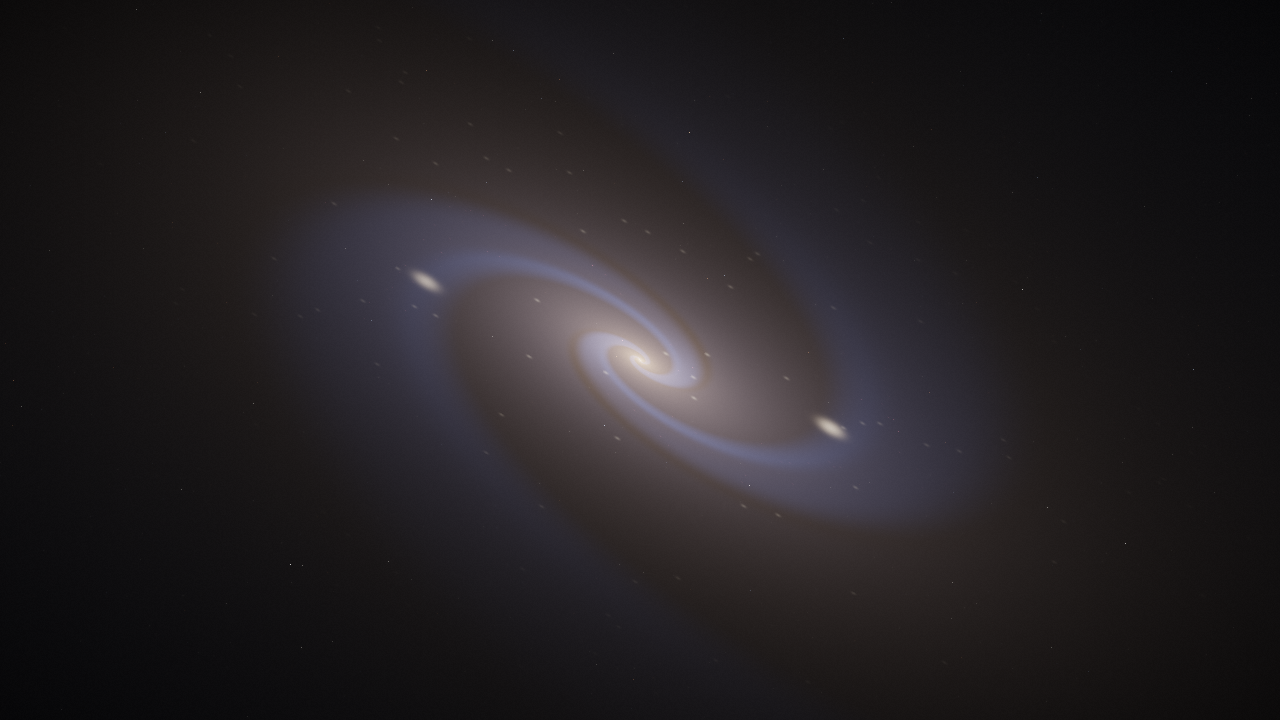
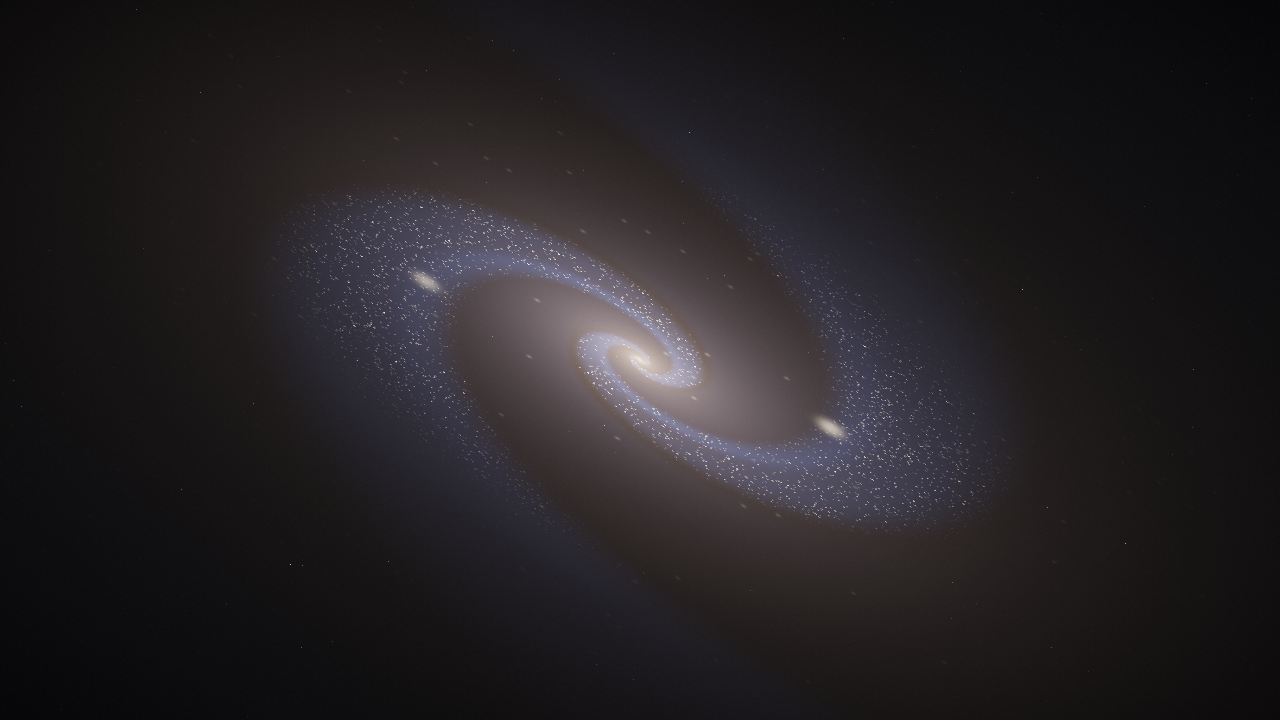
feat(visuals): Gargantua ring, particle galaxy, textured Sun
EN: Reference-driven round (Gargantua, particle spiral, UB2 sun):
thicker brighter BH ring, galaxy arms resolved into individual stars,
boiling Sun surface with faculae, glowing orbit trails.
- Gates: ctest 3/3, static checks pass, glslang clean, doppler 2.36 PASS.

RU: Раунд по референсам (Гаргантюа, звёздная спираль, Солнце UB2):
толще и ярче кольцо ЧД, рукава из отдельных звёзд, кипящая поверхность
Солнца с факулами, светящиеся орбиты.
- Гейты: ctest 3/3, static checks pass, glslang чист, доплер 2.36 PASS.

Changed region(s): [[0.6875, 0.6111, 0.7188, 0.6417], [0.375, 0.3056, 0.4062, 0.3361]]

diff --git a/src/SceneManager.cpp b/src/SceneManager.cpp
@@ -325,7 +325,7 @@ void SceneManager::render(const Camera& camera, int fbWidth, int fbHeight, float
     m_linesShader->bind();
     m_linesShader->setUniformMat4f("u_MVP", mvp);
     m_linesShader->setUniformMat4f("u_Model", glm::mat4(1.0f));
-    m_linesShader->setUniform3f("u_LineColor", 0.25f, 0.3f, 0.4f);
+    m_linesShader->setUniform3f("u_LineColor", 0.45f, 0.55f, 0.75f);
     m_orbits.drawLines();
 
     m_linesShader->setUniformMat4f("u_Model", glm::rotate(glm::mat4(1.0f), time * 0.02f,
